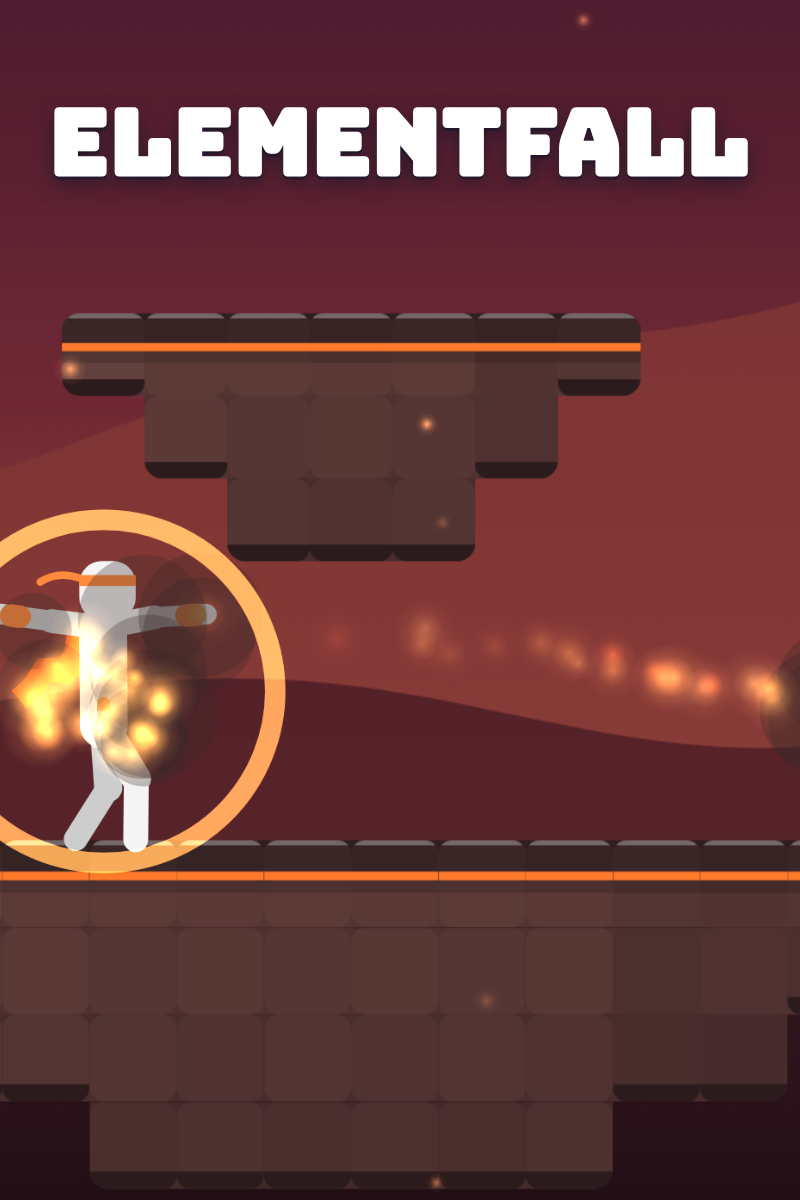
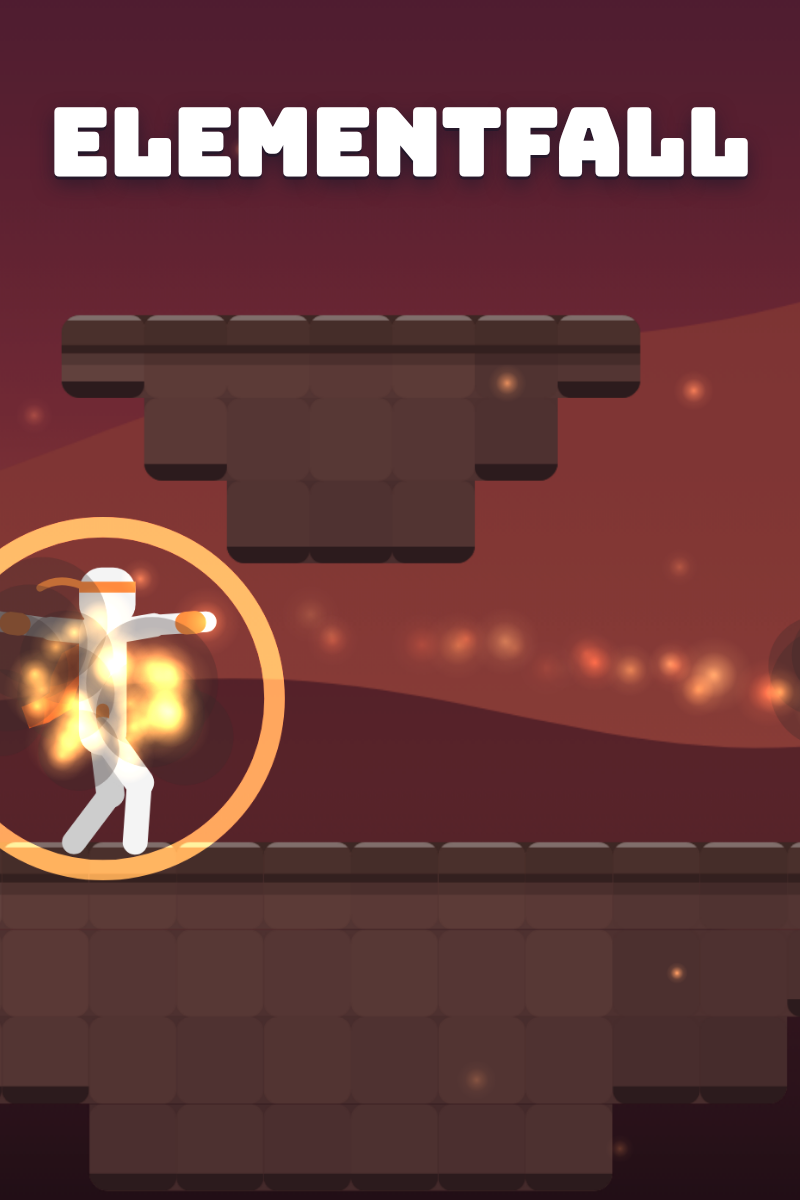
Remove the orange line on Ember Wastes islands
The ember cap now uses a dark basalt crust instead of a bright orange strip.
Covers regenerated.

Claude-Session: https://claude.ai/code/session_01D9ztvUhhicvkvcXy5pqmb7

diff --git a/index.html b/index.html
@@ -6,7 +6,7 @@
   <meta name="theme-color" content="#1d2233">
   <meta name="description" content="Elementfall - a ragdoll brawler across seven elemental realms. Unlock 12 elements, knock foes off floating islands, beat 56 stages and bosses, then survive Endless.">
   <title>Elementfall</title>
-  <link rel="stylesheet" href="css/style.css?v=9">
+  <link rel="stylesheet" href="css/style.css?v=10">
   <script src="https://sdk.crazygames.com/crazygames-sdk-v3.js"></script>
 </head>
 <body>
@@ -115,18 +115,18 @@
   <div id="toasts"></div>
   <div id="rotate" class="hidden"><div><span class="ic" data-icon="rotate"></span><p>TURN YOUR DEVICE SIDEWAYS</p><button class="btn primary" id="btnRotateOk"><b>PLAY ANYWAY</b></button></div></div>
 
-  <script src="js/util.js?v=9"></script>
-  <script src="js/platform.js?v=9"></script>
-  <script src="js/audio.js?v=9"></script>
-  <script src="js/elements.js?v=9"></script>
-  <script src="js/realms.js?v=9"></script>
-  <script src="js/progress.js?v=9"></script>
-  <script src="js/ragdoll.js?v=9"></script>
-  <script src="js/world.js?v=9"></script>
-  <script src="js/fx.js?v=9"></script>
-  <script src="js/game.js?v=9"></script>
-  <script src="js/icons.js?v=9"></script>
-  <script src="js/ui.js?v=9"></script>
-  <script src="js/main.js?v=9"></script>
+  <script src="js/util.js?v=10"></script>
+  <script src="js/platform.js?v=10"></script>
+  <script src="js/audio.js?v=10"></script>
+  <script src="js/elements.js?v=10"></script>
+  <script src="js/realms.js?v=10"></script>
+  <script src="js/progress.js?v=10"></script>
+  <script src="js/ragdoll.js?v=10"></script>
+  <script src="js/world.js?v=10"></script>
+  <script src="js/fx.js?v=10"></script>
+  <script src="js/game.js?v=10"></script>
+  <script src="js/icons.js?v=10"></script>
+  <script src="js/ui.js?v=10"></script>
+  <script src="js/main.js?v=10"></script>
 </body>
 </html>

diff --git a/js/realms.js b/js/realms.js
@@ -17,7 +17,7 @@ const REALMS = [
     id: 'ember', name: 'Ember Wastes', element: 'fire',
     sky: ['#2b1030', '#8a2e3b', '#ff9a52'], sun: '#ffcf7a', sunPos: [0.25, 0.32],
     hills: ['#9c3d3a', '#64232c', '#3b1520'], fog: '#ff8a5a',
-    top: '#3a2626', topDark: '#ff7a2a', rock: '#5c3b37', rockDark: '#3b2427',
+    top: '#4a302c', topDark: '#33201f', rock: '#5c3b37', rockDark: '#3b2427',
     ambient: 'ember', tint: '#ff8a3d', glowTop: true,
     boss: { name: 'Cinder Tyrant', title: 'Lord of Ash' },
   },
